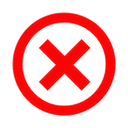
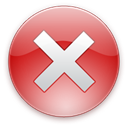
cambio iconos

diff --git a/README.md b/README.md
@@ -1,3 +1,5 @@
 # Remove Element
 
 Remover for HTML elements, images, paragraphs, links, etc. Gives the option to remove the parent element. Chrome extension.
+
+Use the right button on the item to delete from the menu
